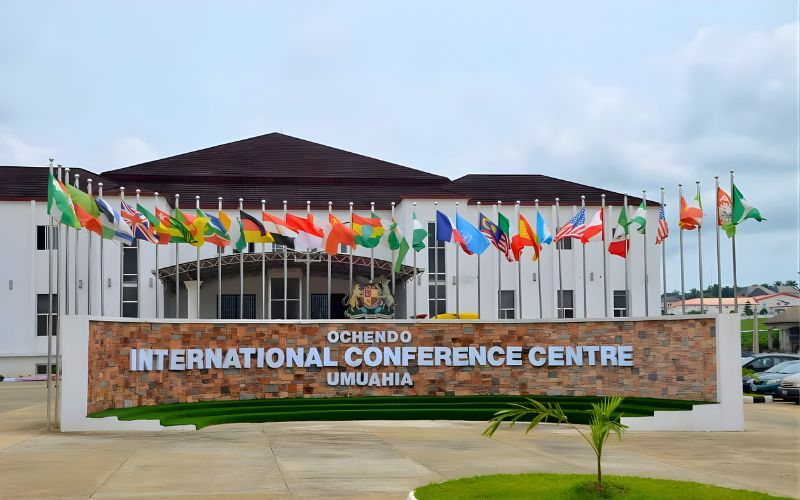
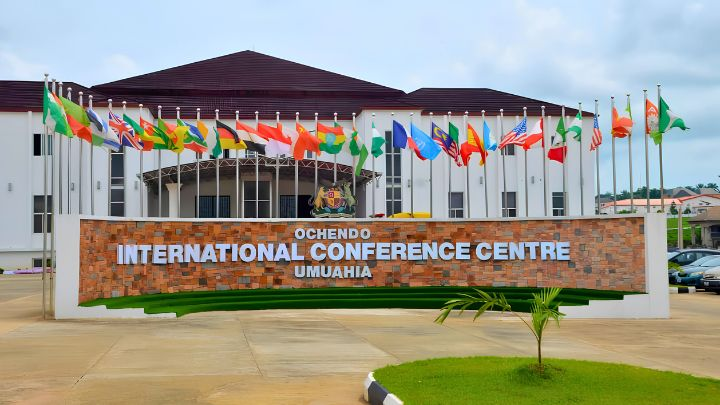
Added more Images to the carousel

diff --git a/gallery.html b/gallery.html
@@ -87,13 +87,13 @@
                 <header class="section-header">
                     <h3>SEMD 2026 Photo Gallery</h3>
                 </header>
-
+<!--
                 <p class="gallery-caption">
                     Moments from the Inauguration of Local Organising Committees and Highlights of the South East Migration Dialogue
                 </p>
 
                 <div class="row">
-                    <!-- Gallery Item 1 -->
+                    <!-- Gallery Item 1 --
                     <div class="col-md-4 col-sm-6">
                         <div class="gallery-item">
                             <img src="img/gallery-1.jpg" alt="LOC Inauguration Meeting">
@@ -106,7 +106,7 @@
                         </div>
                     </div>
 
-                    <!-- Gallery Item 2 -->
+                    <!-- Gallery Item 2 --
                     <div class="col-md-4 col-sm-6">
                         <div class="gallery-item">
                             <img src="img/gallery-2.jpg" alt="Committee Members">
@@ -119,7 +119,7 @@
                         </div>
                     </div>
 
-                    <!-- Gallery Item 3 -->
+                    <!-- Gallery Item 3 --
                     <div class="col-md-4 col-sm-6">
                         <div class="gallery-item">
                             <img src="img/logo.png" alt="CSOnetMADE Logo">
@@ -132,7 +132,7 @@
                         </div>
                     </div>
 
-                    <!-- Gallery Item 4 -->
+                    <!-- Gallery Item 4 --
                     <div class="col-md-4 col-sm-6">
                         <div class="gallery-item">
                             <img src="img/hero-bg.jpg" alt="Conference Center">
@@ -145,7 +145,7 @@
                         </div>
                     </div>
 
-                    <!-- Gallery Item 5 -->
+                    <!-- Gallery Item 5 --
                     <div class="col-md-4 col-sm-6">
                         <div class="gallery-item">
                             <img src="img/gallery-1.jpg" alt="South East Nigeria Map">
@@ -158,7 +158,7 @@
                         </div>
                     </div>
 
-                    <!-- Gallery Item 6 -->
+                    <!-- Gallery Item 6 --
                     <div class="col-md-4 col-sm-6">
                         <div class="gallery-item">
                             <img src="img/gallery-2.jpg" alt="Stakeholder Engagement">
@@ -171,7 +171,7 @@
                         </div>
                     </div>
 
-                    <!-- Gallery Item 7 -->
+                    <!-- Gallery Item 7 --
                     <div class="col-md-4 col-sm-6">
                         <div class="gallery-item">
                             <img src="img/hero-bg.jpg" alt="Migration Policy Discussion">
@@ -184,7 +184,7 @@
                         </div>
                     </div>
 
-                    <!-- Gallery Item 8 -->
+                    <!-- Gallery Item 8 --
                     <div class="col-md-4 col-sm-6">
                         <div class="gallery-item">
                             <img src="img/logo.png" alt="Diaspora Engagement">
@@ -197,7 +197,7 @@
                         </div>
                     </div>
 
-                    <!-- Gallery Item 9 -->
+                    <!-- Gallery Item 9 --
                     <div class="col-md-4 col-sm-6">
                         <div class="gallery-item">
                             <img src="img/gallery-1.jpg" alt="Youth Participation">
@@ -210,7 +210,7 @@
                         </div>
                     </div>
 
-                    <!-- Gallery Item 10 -->
+                    <!-- Gallery Item 10 --
                     <div class="col-md-4 col-sm-6">
                         <div class="gallery-item">
                             <img src="img/gallery-2.jpg" alt="Private Sector Partnership">
@@ -223,7 +223,7 @@
                         </div>
                     </div>
 
-                    <!-- Gallery Item 11 -->
+                    <!-- Gallery Item 11 --
                     <div class="col-md-4 col-sm-6">
                         <div class="gallery-item">
                             <img src="img/hero-bg.jpg" alt="Government Collaboration">
@@ -236,7 +236,7 @@
                         </div>
                     </div>
 
-                    <!-- Gallery Item 12 -->
+                    <!-- Gallery Item 12 --
                     <div class="col-md-4 col-sm-6">
                         <div class="gallery-item">
                             <img src="img/logo.png" alt="CSO Network Meeting">
@@ -575,6 +575,29 @@
                     <div class="col-md-6 img-cols d-none d-md-block">
                         <div class="img-col">
                             <img class="img-fluid" src="img/gallery-25.jpg" alt="Okoye Hope Nkeiruka">
+                        </div>
+                    </div>
+                </div>
+
+                <!-- Amafili Isabella Kelechi, FCNA -->
+                <div class="row">
+                    <div class="col-md-6 img-cols">
+                        <div class="img-col">
+                            <img class="img-fluid" src="img/gallery-31.jpg" alt="Amafili Isabella Kelechi, FCNA">
+                        </div>
+                    </div>
+                    <div class="col-md-6 content-cols content-cols-right">
+                        <div class="content-col">
+                            <h3>Amafili Isabella Kelechi, FCNA</h3>
+                            <h4>Permanent Secretary, Ministry of Local Government and Chieftaincy Affairs, Imo State</h4>
+                            <p>
+                                Amafili Isabella Kelechi, FCNA, serves as the Permanent Secretary of the Ministry of Local Government and Chieftaincy Affairs in Imo State. She brings extensive administrative and governance expertise to the SEMD 2026, with a deep understanding of local government operations and traditional institutions' roles in community development. Her work focuses on strengthening the interface between local government structures and migration governance, ensuring that grassroots administrative systems are equipped to address migration-related challenges at the community level. She has been instrumental in facilitating collaboration between local government councils, traditional rulers, and civil society organizations in Imo State to create comprehensive support systems for migrants and returnees.
+                            </p>
+                            <div class="social-links">
+                                <a href="#" class="twitter"><i class="fa fa-twitter"></i></a>
+                                <a href="#" class="facebook"><i class="fa fa-facebook"></i></a>
+                                <a href="#" class="linkedin"><i class="fa fa-linkedin"></i></a>
+                            </div>
                         </div>
                     </div>
                 </div>

diff --git a/index.html b/index.html
@@ -99,7 +99,7 @@
                         </div>
 
                         <div class="carousel-item">
-                            <div class="carousel-background"><img src="img/hero-bg.jpg" alt="Migration Governance"></div>
+                            <div class="carousel-background"><img src="img/gallery-32.jpg" alt="Migration Governance"></div>
                             <div class="carousel-container">
                                 <div class="carousel-content">
                                     <span class="event-theme"><i class="fa fa-users"></i> Whole-of-Government Approach</span>
@@ -116,7 +116,7 @@
                         </div>
 
                         <div class="carousel-item">
-                            <div class="carousel-background"><img src="img/hero-bg.jpg" alt="Diaspora Engagement"></div>
+                            <div class="carousel-background"><img src="img/gallery-33.jpg" alt="Diaspora Engagement"></div>
                             <div class="carousel-container">
                                 <div class="carousel-content">
                                     <span class="event-theme"><i class="fa fa-handshake-o"></i> Partnership for Development</span>